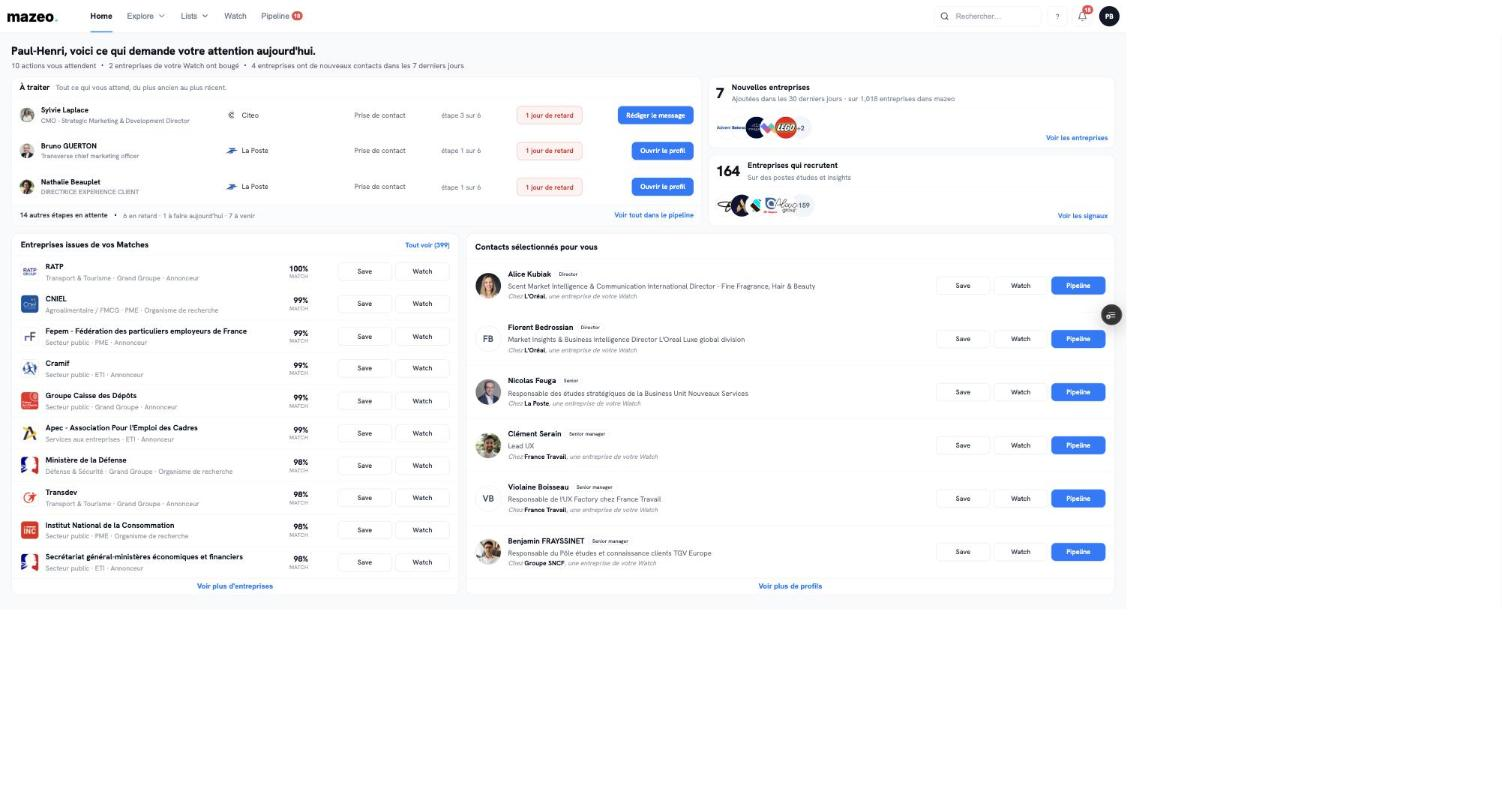
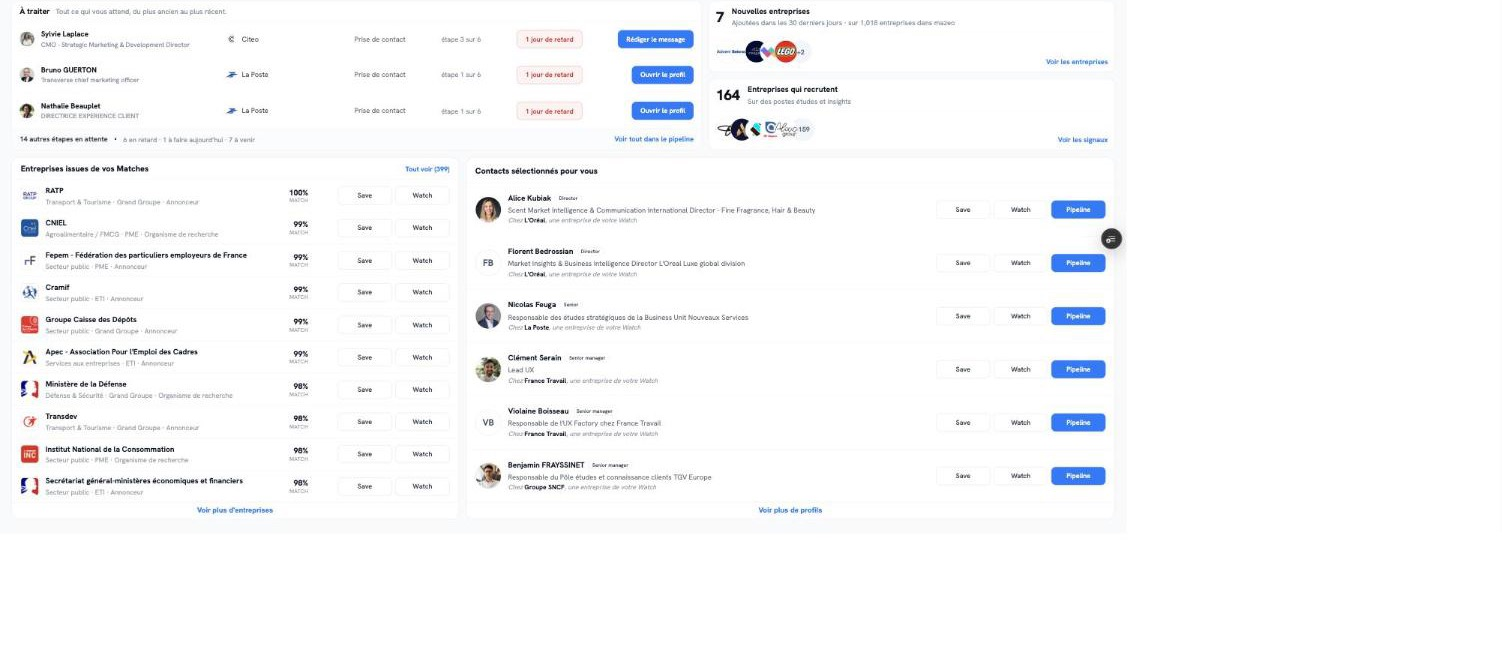
Captures Home et Market recadrées, image de partage og-image-v3
Claude-Session: https://claude.ai/code/session_01CwTiw9C6ocLyqEHC6MciaF

diff --git a/index.html b/index.html
@@ -453,7 +453,7 @@ footer { border-top: 1px solid var(--line); padding-block: 40px; }
       <div class="frame-wrap rise d4">
         <div class="frame">
           <div class="frame-bar" aria-hidden="true"><i></i><i></i><i></i><span class="url">app.mazeo.co</span></div>
-          <img src="assets/02-explore-market-map.jpg" width="1502" height="812" alt="mazeo, Explore : la carte du marché français des études, par catégorie, avec les logos des entreprises" fetchpriority="high">
+          <img src="assets/02-explore-market-map.jpg" width="1502" height="660" alt="mazeo, Explore : la carte du marché français des études, par catégorie, avec les logos des entreprises" fetchpriority="high">
         </div>
         <div class="frame-caption">
           <span data-t="hero.caption">Explore · The Market — le marché français des études, en quatre catégories.</span>
@@ -618,7 +618,7 @@ footer { border-top: 1px solid var(--line); padding-block: 40px; }
         </div>
         <div class="frame">
           <div class="frame-bar" aria-hidden="true"><i></i><i></i><i></i><span class="url">app.mazeo.co</span></div>
-          <img src="assets/01-home.jpg" width="1502" height="812" loading="lazy" alt="Page d'accueil de mazeo : ce qui demande votre attention aujourd'hui, entreprises issues de vos Matches, contacts sélectionnés pour vous">
+          <img src="assets/01-home.jpg" width="1502" height="660" loading="lazy" alt="Page d'accueil de mazeo : ce qui demande votre attention aujourd'hui, entreprises issues de vos Matches, contacts sélectionnés pour vous">
         </div>
       </div>
     </div>
